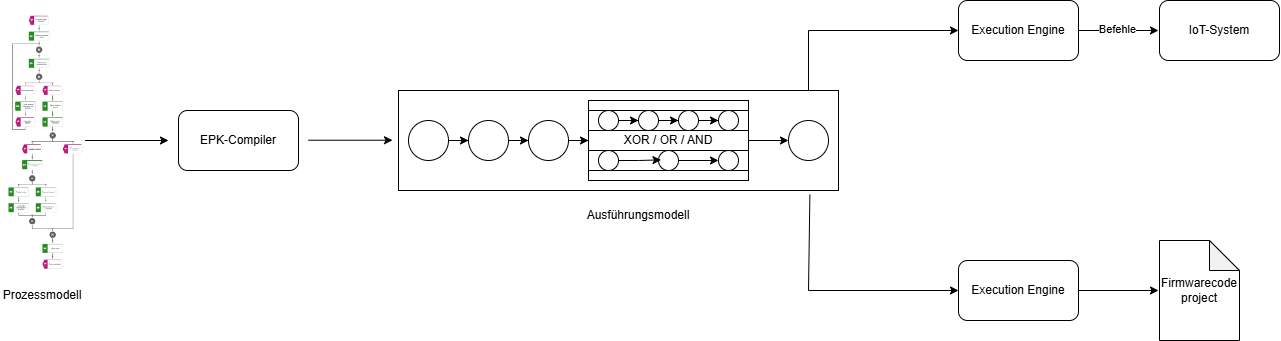
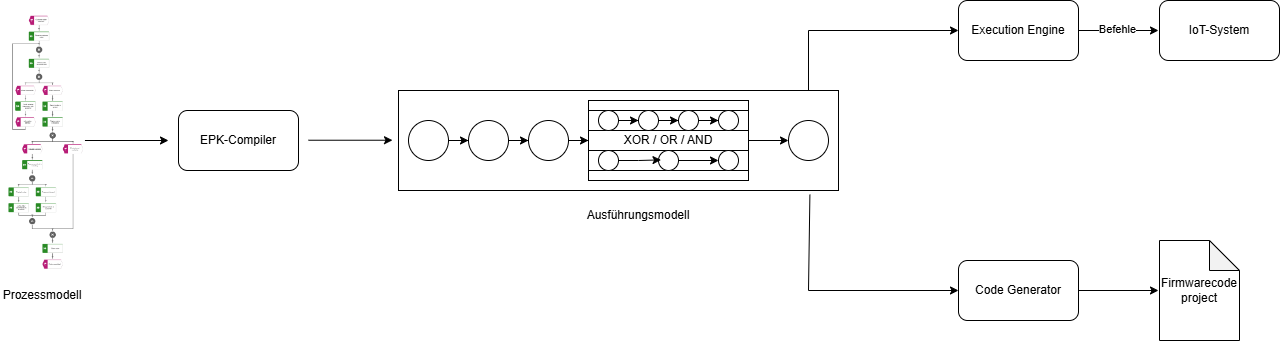
Put execution model into model definitions and concretizised the execution model formally

diff --git a/Chapters/Systemdesign-und-Spezifikation.tex b/Chapters/Systemdesign-und-Spezifikation.tex
@@ -24,18 +24,11 @@ Wie anfangs schon beschrieben hat das System die folgenden Komponenten:
 Der EPK-Compiler ist dafür zuständig das Prozessmodell in ein Ausführungsmodell zu übersetzen.
 Dies geschieht durch Einlesen der Prozesssprache, welche dann in jedem Schritt das Ausführungsmodell Stück für Stück aufbaut.
 
-\subsection{Ausführungsmodell}
-
-Das Ausführungsmodell ist eine Folge an Befehlen, welche die Prozessschritte darstellen. Dabei wird nicht mehr zwischen Ereignis und 
-Funktion unterschieden. Dieses Modell ist näher am Programmcode und ein Befehl enthält Metadaten wie Namen und Rückgabetyp. Dieses 
-Modell wird dann von der Execution-Engine eingelesen, welche dann die Folge Schritt für Schritt ausführt. Dabei enthält das Modell
-auch Kontrollflussstrukturen, welche die Verknüpfungsoperatoren des Prozesses modellieren.
-
-\subsection{Execution-Engine}
+\subsubsection{Execution-Engine}
 
 Die Execution-Engine nimmt ein Ausführungsmodell an und führt dieses schrittweise auf dem IoT-System aus.
 
-\subsection{Code-Generator}
+\subsubsection{Code-Generator}
 
 Der Code-Generator nimmt ein Ausführungdsmodell und generiert Codedateien für das Ziel IoT-System gemäß der einzelnen 
 Befehlsschritte.
@@ -55,7 +48,6 @@ Das Prozessmodell enthält
     \item das Endereignis $e_E \in E$,
     \item die Knotenmenge $V$,
     \item die Kanten aus $A$ realisiert durch eine Adjazenzliste gemäß der Relation $N$
-    \item eine verkettete Liste der Knoten $v \in V$ in topologischer Sortierung
 \end{itemize}
 
 Dieses stellt den Prozess als Graphen nach Lengener et.al dar, welcher mit Tiefensuche traversiert
@@ -63,11 +55,25 @@ und in das Ausführungsmodell kompiliert wird. Jeder Knoten $v \in V$ enthält d
 eine eindeutige ID, welche die einzelnen Prozessschritte und Knoten voneinander unterscheidet.
 
 \subsubsection{Ausführungsmodell}
+Das Ausführungsmodell ist eine Folge an Befehlen, welche die Prozessschritte darstellen. Dabei wird nicht mehr zwischen Ereignis und 
+Funktion unterschieden. Dieses Modell ist näher am Programmcode und ein Befehl enthält Metadaten wie Namen und Rückgabetyp. Dieses 
+Modell wird dann von der Execution-Engine eingelesen, welche dann die Folge Schritt für Schritt ausführt. Dabei enthält das Modell
+auch Kontrollflussstrukturen, welche die Verknüpfungsoperatoren des Prozesses modellieren. Formal kann es wie folgt definiert werden:
 
 Sei $X$ die Menge aller Executables. $X$ hat die Teilmengen $X_S$ für die Menge aller elementaren Executables (SingleExecutables)
 und $X_G$ für die Menge aller gruppierten Executables (ExecutableGroup). Eine ExecutableGroup $x_G \in X_G$ kann beschrieben werden
 als ein Tupel aus $Q^n \times P$, bestehend der Menge aller ExecutableQueues $Q$ (FIFO-Warteschlangen bestehend aus $x \in X$) und 
-der Relation $P: Q^k \rightarrow \mathbb{B}; (k \leq n)$, welche die Bedingung der ExecutionGroup darstellt um Verknüpfungsoperatoren umzusetzen.
+der Abbildung $\rho: Q^k \rightarrow \mathbb{B}; (k \leq n)$, welche die Bedingung der ExecutionGroup darstellt um Verknüpfungsoperatoren umzusetzen.
+Im Fall von EPK werden die Verknüpfungsoperatoren wie folgt dargestellt: 
+
+\begin{itemize}
+    \item XOR: $k = 1$
+    \item OR $k \leq 1$
+    \item AND: $k = n$
+\end{itemize}
+
+$k$ und somit auch $q \in Q^k$ werden zur Laufzeit durch Evaluierung der ExecutableQueue von $x_g \in X_G$ ermittelt. 
+
 $n \in \mathbb{N}$ ist dabei die Anzahl der Operanden des Verknüpfungsoperators eines Prozesses $P$.
 Eine SingleExecutables $x_S \in X_S$ enthält eine ID identisch zum passenden $v \in V$ und dem Rückgabetypen des Prozesses oder der Funktion.
 
@@ -77,7 +83,7 @@ Der Rückgabetyp von $x_S \in X_S$ kann formal als die Menge eines Rückgabewert
 
 \begin{enumerate}
     \item Gilt: $v \in E$ für ein $v$ mit derselben ID wie $x_S$, so ist der Rückgabwert $r \in \mathbb{B}$ 
-    \item Gilt: $v \in F$ für ein $v$ mit derselben ID wie $x_S$, so ist der Rückgabwert $r \in \mathbb{N}^{+}$ 
+    \item Gilt: $v \in F$ für ein $v$ mit derselben ID wie $x_S$, so ist der Rückgabwert $r \in \{0 \geq n \leq 255 | n \in \mathbb{N}\}$ 
 \end{enumerate}
 
 \subsubsection{Codegenerierungsmodell}
@@ -113,10 +119,13 @@ Die Antwort hat folgendes Schema:
 }
 \end{lstlisting}
 
-\textbf{PUT /<SHA-256 Prüfsumme der Single-Executable ID>}
+Sei $h$ die SHA-256 Prüfsumme der Single-Executable ID
+
+\textbf{PUT /<$h$[0:15]>}
 
 Führt die Operation einer Single-Executable mit der passenden ID aus. Auch wenn es sich hier um eine PUT-Anfrage handelt, muss 
-kein Payload mitgegeben werden.
+kein Payload mitgegeben werden. Dies begründet auch die Entscheidung PUT zu verwenden. Normalerweise wird für eine Ausführung POST
+genutzt. Da für die Ausführung aber keine Parameter oder eingehender Payload zwingend benötigt wird, erschien PUT sinnvoller.
 
 Die Antwort ist der Rückgabewert und die Ausführungszeit auf dem Mikrocontroller. Das Schema
 ist hierbei wie folgt:
@@ -124,9 +133,11 @@ ist hierbei wie folgt:
 \begin{lstlisting}[caption={Schema der Antwort}, label=lst:single-executable-answer]
 {
     "result": unsigned uint8_t | bool, 
-    "timeSpent": usigned uint32_t
+    "timeSpent": uint32_t
 }
 \end{lstlisting}
+
+TODO: Remote call interface des SimulationsServers einfügen 
 
 \section{Ausführung}
 \subsection{Übersetzung des Prozessmodells}
@@ -134,7 +145,7 @@ ist hierbei wie folgt:
 \subsection{Logik zur Ausführung des Ausführungsmodells}
 
 \section{Animation der Automatisierung}
-\subsection{Gegenüberstellung von TCP und HTTP}
+\subsection{Gegenüberstellung von Polling und bidirektionaler Verbindung}
 \subsection{Analogie: WebSockets}
 
 \section{Generierung des Firmwarequellcodes}
